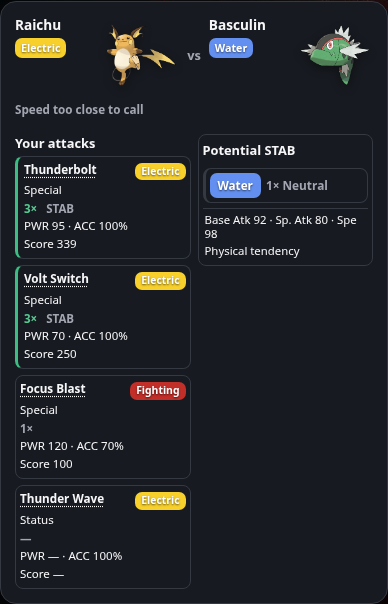
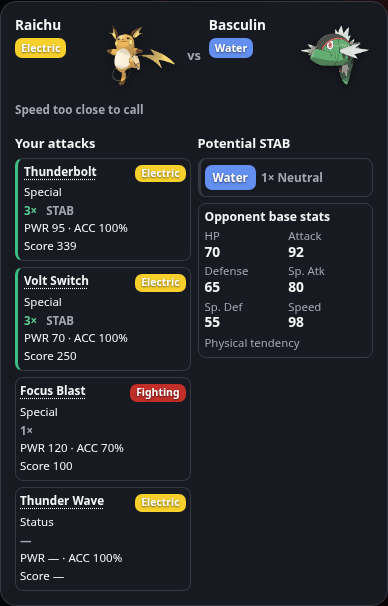
Finish V76 defense cards and preemptive OHKO notice

diff --git a/sw.js b/sw.js
@@ -1,7 +1,7 @@
 // V70: match the actual versioned URLs requested by index.html for offline cold starts.
-const NAME='takdex-v76-release-candidate-5';
+const NAME='takdex-v76-release-candidate-5-final';
 const ART='takdex-artwork-runtime-v74-dev71';
-const FILES=['./','./index.html','./styles.css?v=76.0.4','./bw-core-dev5.js?v=74.0.0','./app.js?v=76.0.4','./gen5-save.js?v=76.0.0','./save-sync.js?v=76.0.4','./db74/gen5-save-names.json','./db74.js?v=74.0.0','./tutor-locations.js?v=74.0.0','./v73-ui.js?v=74.0.0','./hoenn-map.js?v=76.0.0','./maps.js?v=76.0.0','./battle-outcomes.js?v=76.0.3','./v74-ux.js?v=76.0.4','./unova-v74.js?v=74.5.2.20261124','./bw-trainer-moves-v76.js?v=74.5.2.20261124','./unova-trainer-reference.js?v=76.0.0','./trainer-abilities-v76.js?v=76.0.3','./sprite-ids-v77.js?v=74.5.2.20261124','./platinum-league-v77.js?v=74.5.2.20261124','./unova-b2w2-v74.js?v=74.0.0','./unova-black-2-v74.jpg?v=74.6.1','./unova-white-2-v74.jpg?v=74.6.1','./unova-black-v78.jpg?v=74.8.3','./unova-white-v78.jpg?v=74.8.3','./feedback-config.js?v=74.0.0','./manifest.webmanifest','./icon-192.png','./icon-512.png','./takdex-background.webp','./takdex-background-light.webp','./takdex-radar-logo.png','./takdex-header-logo.png','./takdex-team-nav.png','./takdex-battle-nav.png','./takdex-pokedex-nav.png','./takdex-splash.png','./sinnoh-platinum-game-map.png'];
+const FILES=['./','./index.html','./styles.css?v=76.0.5','./bw-core-dev5.js?v=74.0.0','./app.js?v=76.0.4','./gen5-save.js?v=76.0.0','./save-sync.js?v=76.0.4','./db74/gen5-save-names.json','./db74.js?v=74.0.0','./tutor-locations.js?v=74.0.0','./v73-ui.js?v=74.0.0','./hoenn-map.js?v=76.0.0','./maps.js?v=76.0.0','./battle-outcomes.js?v=76.0.5','./v74-ux.js?v=76.0.5','./unova-v74.js?v=74.5.2.20261124','./bw-trainer-moves-v76.js?v=74.5.2.20261124','./unova-trainer-reference.js?v=76.0.0','./trainer-abilities-v76.js?v=76.0.3','./sprite-ids-v77.js?v=74.5.2.20261124','./platinum-league-v77.js?v=74.5.2.20261124','./unova-b2w2-v74.js?v=74.0.0','./unova-black-2-v74.jpg?v=74.6.1','./unova-white-2-v74.jpg?v=74.6.1','./unova-black-v78.jpg?v=74.8.3','./unova-white-v78.jpg?v=74.8.3','./feedback-config.js?v=74.0.0','./manifest.webmanifest','./icon-192.png','./icon-512.png','./takdex-background.webp','./takdex-background-light.webp','./takdex-radar-logo.png','./takdex-header-logo.png','./takdex-team-nav.png','./takdex-battle-nav.png','./takdex-pokedex-nav.png','./takdex-splash.png','./sinnoh-platinum-game-map.png'];
 FILES.push(...["./db74/e-alpha-sapphire.json","./db74/e-black-2.json","./db74/e-black.json","./db74/e-blue.json","./db74/e-brilliant-diamond.json","./db74/e-crystal.json","./db74/e-diamond.json","./db74/e-emerald.json","./db74/e-firered.json","./db74/e-gold.json","./db74/e-heartgold.json","./db74/e-leafgreen.json","./db74/e-moon.json","./db74/e-omega-ruby.json","./db74/e-pearl.json","./db74/e-platinum.json","./db74/e-red.json","./db74/e-ruby.json","./db74/e-sapphire.json","./db74/e-scarlet.json","./db74/e-shield.json","./db74/e-shining-pearl.json","./db74/e-silver.json","./db74/e-soulsilver.json","./db74/e-sun.json","./db74/e-sword.json","./db74/e-ultra-moon.json","./db74/e-ultra-sun.json","./db74/e-violet.json","./db74/e-white-2.json","./db74/e-white.json","./db74/e-x.json","./db74/e-y.json","./db74/e-yellow.json","./db74/index.json","./db74/machines.json","./db74/moves.json","./db74/p0.json","./db74/p1.json","./db74/p10.json","./db74/p11.json","./db74/p12.json","./db74/p13.json","./db74/p14.json","./db74/p15.json","./db74/p156.json","./db74/p157.json","./db74/p158.json","./db74/p159.json","./db74/p16.json","./db74/p160.json","./db74/p161.json","./db74/p2.json","./db74/p3.json","./db74/p4.json","./db74/p5.json","./db74/p6.json","./db74/p7.json","./db74/p8.json","./db74/p9.json"]);
 self.addEventListener('install',e=>{self.skipWaiting();e.waitUntil(caches.open(NAME).then(c=>c.addAll(FILES)))});
 self.addEventListener('activate',e=>e.waitUntil(caches.keys().then(keys=>Promise.all(keys.filter(k=>(k.startsWith('takdex-v')&&k!==NAME)||k==='takdex-artwork-v26').map(k=>caches.delete(k)))).then(()=>self.clients.claim())));

diff --git a/styles.css b/styles.css
@@ -1445,15 +1445,20 @@ main .buttons,dialog .buttons{margin-top:8px;}
 :is(.td76-move-card,.td76-defense-type).td74-effect-danger :is(.td76-move-effect,strong){color:#ff7183}
 body.light :is(.td76-move-card,.td76-defense-type).td74-effect-safe :is(.td76-move-effect,strong){color:#166b44}
 body.light :is(.td76-move-card,.td76-defense-type).td74-effect-danger :is(.td76-move-effect,strong){color:#aa1739}
-.td76-defense{display:grid;gap:5px;align-self:start;align-content:start;min-width:0;border:1px solid var(--edge);border-radius:8px;background:var(--card);padding:6px 4px}
-.td76-defense-type{display:flex;flex-wrap:wrap;align-items:center;gap:3px 5px;min-width:0;padding:4px;border:1px solid var(--edge);border-inline-start:3px solid var(--edge);border-radius:8px;font-size:.74rem}
+.td76-defense{display:grid;gap:6px;align-self:start;align-content:start;min-width:0}
+.td76-quick-grid h4{margin-bottom:6px}
+.td76-quick-grid .td76-defense>h4{margin-bottom:0}
+.td76-defense-type{display:flex;flex-wrap:wrap;align-items:center;gap:3px 5px;min-width:0;padding:6px 4px;border:1px solid var(--edge);border-inline-start:3px solid var(--edge);border-radius:8px;background:var(--card);font-size:.74rem}
 .td76-defense-type .pill{margin:0;color:#fff!important;text-shadow:0 1px 2px #0009}
 .td76-defense-type.td74-effect-safe{border-inline-start-color:#57ca92}
 .td76-defense-type.td74-effect-danger{border-inline-start-color:#ff7183}
 body.light .td76-defense-type.td74-effect-safe{border-inline-start-color:#166b44}
 body.light .td76-defense-type.td74-effect-danger{border-inline-start-color:#aa1739}
-.td76-defense-stats{display:grid;gap:2px;padding:4px 2px 0;border-top:1px solid var(--edge)}
-.td76-defense-stats small{font-size:.71rem;line-height:1.3}
+.td76-defense-stats{display:grid;gap:5px;padding:6px;border:1px solid var(--edge);border-radius:8px;background:var(--card)}
+.td76-defense-stats h5{margin:0;font-size:.76rem;line-height:1.2}
+.td76-defense-stats dl{display:grid;grid-template-columns:repeat(2,minmax(0,1fr));gap:4px 6px;margin:0}
+.td76-defense-stats dt,.td76-defense-stats small{font-size:.71rem;line-height:1.3;color:var(--muted)}
+.td76-defense-stats dd{margin:0;font-size:.86rem;line-height:1.2;font-weight:800}
 :is(#battlePage,#plannerPage) .td77-turn-row .td76-turn-order{color:var(--muted);font-weight:800;font-size:.73rem}
 :is(#battlePage,#plannerPage) .td77-turn-row .td76-turn-order.player{color:#47d991}
 :is(#battlePage,#plannerPage) .td77-turn-row .td76-turn-order.opponent{color:#ff6575}
@@ -1498,6 +1503,8 @@ body.light :is(#battlePage,#plannerPage) .td77-turn-row .td76-turn-order.opponen
 #pokeForm .td74-item-options{z-index:150}
 .td76-battle-warning{display:flex;gap:6px;align-items:baseline;margin:7px 0;padding:6px 8px;border:1px solid #df5769;border-radius:8px;background:#401e27;color:#ff8a98;font-size:.8rem;font-weight:800}
 body.light .td76-battle-warning{background:#fff1f2;color:#a41d36}
+.td76-battle-warning.td76-battle-opportunity{border-color:#3aab78;background:#163a2b;color:#75dda9}
+body.light .td76-battle-warning.td76-battle-opportunity{background:#ecfaf2;color:#166b44}
 :is(#battlePage,#plannerPage) .td77-turn-row .td76-turn-order{width:fit-content;max-width:100%;line-height:1.15}
 
 

diff --git a/v74-ux.js b/v74-ux.js
@@ -69,7 +69,9 @@ function potentialThreat(a,d,gen){
  return `<section class="td76-defense"><h4>Potential STAB</h4>${plannerPotentialStab(d,a,gen).map(({type,mult})=>{
   const tone=mult<1?'safe':mult>1?'danger':'neutral';
   return `<div class="td76-defense-type td74-effect-${tone}">${pill(type)} <strong>${mult+'× '+(mult===0?'Immune':mult>1?'Weak':mult<1?'Resists':'Neutral')}</strong></div>`;
- }).join('')}<div class="td76-defense-stats"><small>Base Atk ${physical??'—'} · Sp. Atk ${special??'—'} · Spe ${stats.speed??'—'}</small>${physical&&special?`<small>${tendency}</small>`:''}</div></section>`;
+ }).join('')}<div class="td76-defense-stats"><h5>Opponent base stats</h5><dl>
+  ${Object.entries(STAT_NAMES).map(([key,label])=>`<div><dt>${label}</dt><dd>${escape(stats[key]??'—')}</dd></div>`).join('')}
+ </dl>${physical&&special?`<small>${tendency}</small>`:''}</div></section>`;
 }
 function moveCard(m,a,d,gen,{incoming=false,battle=false,outcome=null,standardOrder=null,comparison=null}={}){
  const report=td72AbilityReport(m,d,gen,a), status=m.damageClass==='status';
@@ -141,9 +143,11 @@ function duelCard(own,foe,a,d,gen,status,context='planner'){
  const incoming=moveCards(d,a,gen,{incoming:true,first:threat?.m,standardOrder:knownOrder===null?null:1-knownOrder,comparison:best?.m});
  const danger=best?.m&&outcomes.threat(d,a,gen,best.m);
  const warning=danger?.preemptiveKo>0?danger.m.name+(danger.preemptiveKo>=1-1e-10?' is predicted to KO before you attack':' can KO before you attack'):'';
+ const opportunity=best?.beforeReplyKo>0?best.m.name+
+  (best.beforeReplyKo>=1-1e-10?' will OHKO before the opponent attacks':' can OHKO before the opponent attacks'):'';
  const moves=battle?`<div class="td74-clash-columns td76-quick-grid"><section><h4>Your attacks</h4>${outgoing.join('')||'<small>No moves entered.</small>'}</section>${a&&d?potentialThreat(a,d,gen):''}</div>`:
  `<div class="td76-duel-grid"><h4>Your attacks</h4><h4>Incoming threats</h4>${Array.from({length:Math.max(1,outgoing.length,incoming.length)},(_,i)=>(outgoing[i]||`<div>${i===0?'<small>No moves entered.</small>':''}</div>`)+(incoming[i]||`<div>${i===0?'<small>No moves entered.</small>':''}</div>`)).join('')}</div>`;
- return `<article class="card td74-clash"><div class="td75-duel-title${battle?'':' td77-duel-six'}">${mon(own,a,'own')}<span class="td75-vs">vs</span>${mon(foe,d,'opp')}</div>${order}${warning?`<aside class="td76-battle-warning"><span aria-hidden="true">⚠</span> ${escape(warning)}</aside>`:''}${status||''}${moves}</article>`;
+ return `<article class="card td74-clash"><div class="td75-duel-title${battle?'':' td77-duel-six'}">${mon(own,a,'own')}<span class="td75-vs">vs</span>${mon(foe,d,'opp')}</div>${order}${warning?`<aside class="td76-battle-warning"><span aria-hidden="true">⚠</span> ${escape(warning)}</aside>`:''}${opportunity?`<aside class="td76-battle-warning td76-battle-opportunity"><span aria-hidden="true">✓</span> ${escape(opportunity)}</aside>`:''}${status||''}${moves}</article>`;
 }
 
 function renderFocus(){if(window.td3HoldActive?.())return;const own=roster('own')[ownSelection]||{},foe=roster('opp')[oppSelection]||{};

diff --git a/battle-outcomes.js b/battle-outcomes.js
@@ -123,7 +123,20 @@
   return candidates(a,d,g).map(m=>{
    const results=(threats.length?threats:[idle]).map(n=>({n,...compare(a,d,m,n,g)}));
    const worst=results.reduce((x,y)=>attackScore(x)<=attackScore(y)?x:y);
-   return {m,...worst,score:attackScore(worst),verifiedThreat:!!threats.length};
+   // Require a preemptive KO chance against every modeled damaging reply.
+   let beforeReplyKo=threats.length?Math.min(...results.map(result=>result.preemptiveKo)):0;
+   if(beforeReplyKo>0){
+    const bypass=['mold-breaker','turboblaze','teravolt'].includes(td2ActualAbility(a));
+    const ability=td2ActualAbility(d);
+    const possible=ability?[ability]:td2AllAbilities(d);
+    if(!bypass&&((g>=7&&possible.includes('disguise'))||
+      (g>=8&&m.damageClass==='physical'&&possible.includes('ice-face'))||
+      (g>=5&&hp(d)===estimatedHP(d)&&possible.includes('sturdy'))))beforeReplyKo=0;
+    if(g>=2&&td73MoveKey(d.heldItem)==='focus-band')beforeReplyKo=Math.min(beforeReplyKo,.99);
+    const guards=['Protect','Detect','Endure','King’s Shield',"King's Shield",'Spiky Shield','Baneful Bunker','Obstruct','Silk Trap','Burning Bulwark'];
+    if(d.moves?.some(reply=>guards.includes(reply?.name)&&reply.remainingPP!==0&&orderChance(d,a,reply,m,g)>0))beforeReplyKo=0;
+   }
+   return {m,...worst,beforeReplyKo,score:attackScore(worst),verifiedThreat:!!threats.length};
   }).sort((x,y)=>y.win-x.win||y.score-x.score);
  }
  function koLabel({firstKo,twoHitKo}){

diff --git a/index.html b/index.html
@@ -13,7 +13,7 @@
 <meta property="og:type" content="website">
 <meta property="og:image" content="https://alexandrestp337.github.io/Tak-Dex/icon-512.png">
 <script type="application/ld+json">{"@context":"https://schema.org","@type":"WebApplication","name":"Tak-Dex","url":"https://alexandrestp337.github.io/Tak-Dex/","applicationCategory":"GameApplication","operatingSystem":"Web browser","description":"Pokémon team builder, battle planner, move checker, Pokédex and interactive region maps.","offers":{"@type":"Offer","price":"0","priceCurrency":"USD"}}</script>
-<link rel="stylesheet" href="styles.css?v=76.0.4">
+<link rel="stylesheet" href="styles.css?v=76.0.5">
 <link rel="icon" type="image/png" sizes="192x192" href="icon-192.png">
 <link rel="apple-touch-icon" sizes="192x192" href="icon-192.png">
 <link rel="manifest" href="manifest.webmanifest">
@@ -368,7 +368,7 @@
 <script src="hoenn-map.js?v=76.0.0"></script>
 <script src="maps.js?v=76.0.0"></script>
 <script src="feedback-config.js?v=74.0.0"></script>
-<script src="battle-outcomes.js?v=76.0.3"></script>
-<script src="v74-ux.js?v=76.0.4"></script>
+<script src="battle-outcomes.js?v=76.0.5"></script>
+<script src="v74-ux.js?v=76.0.5"></script>
 </body>
 </html>

diff --git a/.github/v76/FEATURE-LEDGER.md b/.github/v76/FEATURE-LEDGER.md
@@ -11,9 +11,10 @@ V76 fifth correction candidate for acceptance. Approved baseline `V75-STABLE` at
 | Battle stat sources | Implemented with estimates for trainers | Imported stats at the saved level, imported IV/EV/nature deltas for level edits, manual offsets, and BW2 Challenge Mode underlying level. Verified trainer move and item data does not establish exact trainer stats. |
 | Survival-aware 6v6 | Implemented with bounded model | Immediate KO threat, priority, effective Speed and ties, accuracy, current HP, conditional power, Sturdy and Focus Sash. The recommendation considers two turns of entered attacks. Move cards prioritize first-turn OHKO and genuine two-hit KO probabilities, with separate damage-potential wording for blocked or uncertain execution. |
 | Conditional moves | Partial | Revenge, Avalanche, Payback, Assurance, Hidden Power, and several context-dependent moves use known inputs. Full mechanics and every move across all generations remain open. |
-| Battle and 6v6 interfaces | Implemented | Team strip above opponent search, restored V75 gold crown treatment, shared move cards, combined STAB display, aligned 6v6 moves and roll bars, actionable matchup warnings, V75-STABLE effectiveness accents and badge contrast, a dedicated color-coded turn-order row below aligned headers, a boxed regular Battle defense panel with individually accented STAB types, Move Checker links and return state. Double Battle retains its existing pairing flow. |
+| Battle and 6v6 interfaces | Implemented | Team strip above opponent search, restored V75 gold crown treatment, shared move cards, combined STAB display, aligned 6v6 moves and roll bars, actionable matchup warnings, V75-STABLE effectiveness accents and badge contrast, a dedicated color-coded turn-order row below aligned headers, an aligned regular Battle defense column with individual STAB cards and all six historical opponent base stats, Move Checker links and return state. Double Battle retains its existing pairing flow. |
 | Stat editor | Implemented | Battle settings starts collapsed, with closed Level & battle stats and Ability & held item subsections. The summary and attacks stay visible. Hypothetical player and opponent controls remain in 6v6. Steppers, tap-to-select, Auto, base stats and source labels are shared. |
 | Preset opponent abilities | Partial coverage | 497 verified encounter records cover supported Gen IV and Unova presets with legal-ability checks. Existing records and sole legal abilities remain available. Other multi-ability encounters stay unknown. |
+| Preemptive OHKO notice | Implemented | A green 6v6 notice distinguishes possible and certain KOs before the modeled reply, with survival guards. |
 | Incoming KO warning | Implemented | Red warning shows a specific modeled preemptive KO, with separate wording for possible and certain outcomes. The ranked strip retains the gold outline and crown. |
 | Visual consistency | Partial | Battle move cards, expanded editor borders, compact controls, and centered equal Pokédex actions with matching icons received targeted updates. Full visual parity across every tool and on-device rendering remain open. |
 | Pokédex | Implemented | Move Checker return restores learnset scroll. Bundled Pokémon and learnsets render when evolution details are unavailable. |

diff --git a/.github/v76/RELEASE-REPORT.md b/.github/v76/RELEASE-REPORT.md
@@ -194,3 +194,17 @@ The picker now compares the validated save-owned data against the current roster
 | Dual-type defense | [412 px](screenshots/defense-dual-412.png) | [1280 px](screenshots/defense-dual-1280.png) |
 
 The picker continues to support raw Generation V saves for supported games. Quick Battle turn order remains an estimate, and its defense panel shows potential STAB types using known abilities. Existing 6v6 simulation and trainer-data coverage limits still apply. Chromium verification used desktop and mobile viewports. Galaxy S25 Ultra, Android WebView and native automatic synchronization remain untested.
+
+### Final refinements in the fifth pass
+
+- Regular Battle aligns the two column headings and uses individual STAB cards with their existing type badges and incoming effectiveness colors. The separate Opponent base stats card shows HP, Attack, Defense, Sp. Atk, Sp. Def and Speed in three rows, with the attacking tendency underneath. Values come from the selected form and game's historical base-stat data.
+- The green 6v6 notice describes the recommended move when the model finds a first-turn KO before every modeled damaging reply. It distinguishes possible and certain outcomes, using current HP, damage rolls, accuracy, speed, priority, items and applicable abilities. The red warning, damage cards and recommendation ranks keep their existing behavior.
+- The notice is conservative when there are no modeled damaging replies, when a guard can act first, or when an unresolved ability can prevent the KO. It describes the matchup model and does not predict the opponent's actual move selection. The model still omits some battle mechanics and field states. Galaxy S25 Ultra and Android WebView remain untested.
+
+The 27 Node tests passed, including first-turn accuracy, damage rolls, Speed ties, priority, current HP, Sturdy, Focus Sash and Focus Band. Chromium correction tests passed at 320, 412 and 1280 px. They checked column alignment and border removal, all six stats and both STAB layouts, green notice wording, survival items and the red warning. A separate Chromium check verified the historical Defense and Sp. Def changes for Pikachu between Black and X and the six form-specific Rotom Wash values in Black. The file-picker, team-management, offline and smoke regressions also passed.
+
+| Screen | Mobile | Desktop |
+| --- | --- | --- |
+| Single-type defensive column | [412 px](screenshots/defense-single-412.png) | [1280 px](screenshots/defense-single-1280.png) |
+| Dual-type defensive column | [412 px](screenshots/defense-dual-412.png) | [1280 px](screenshots/defense-dual-1280.png) |
+| First-turn OHKO notice | [412 px](screenshots/first-turn-ohko-412.png) | [1280 px](screenshots/first-turn-ohko-1280.png) |

diff --git a/.github/v76/ACCEPTANCE.md b/.github/v76/ACCEPTANCE.md
@@ -1,13 +1,9 @@
-# V76 fifth correction acceptance checklist
+# V76 final acceptance checklist
 
-Automated results are recorded below. User acceptance is pending.
-
-| Corrected area | Status | Acceptance check |
+| Correction | Automated status | Acceptance check |
 | --- | --- | --- |
-| Compact Team Builder settings | Pass | Expand a saved Pokémon. Check artwork, typing, level, ability, equipped item and all four attacks while Battle settings is closed. Open it and verify both subsections start closed. Try the level and stat controls, then the ability and item controls. |
-| Manual save-file reimport | Pass | Import a valid Gen V file, edit and save the team, then choose the same file twice. The first reimport restores the game data. The second leaves the matching team alone. An updated file at the same path imports, and a corrupt file leaves the valid party intact. |
-| Battle and 6v6 headers | Pass | Change who strikes first. Names, types, abilities, and applicable levels and items align. The indicator changes sides within its own row. The red KO warning appears directly below it when relevant. |
-| Regular Battle defense | Pass | Compare a single-type opponent with a dual-type opponent. Check independent weakness, resistance, neutral and immunity accents alongside base stats and attacking tendency. |
-| Galaxy S25 Ultra acceptance | Untested | Check these same four areas on the phone. |
+| Regular Battle defense alignment | Pass | Compare single- and dual-type opponents. Potential STAB lines up with Your attacks. Each type row has its own card and effectiveness accent. |
+| Opponent base stats | Pass | Check the separate two-column card. All six base stats appear in order, with the attacking tendency underneath. |
+| First-turn OHKO in 6v6 | Pass | Check that a faster guaranteed KO shows “will OHKO” in green. Uncertain cases show “can OHKO.” A faster opposing attack or a full-HP Focus Sash can suppress the notice. The red incoming warning remains available. |
 
-[Release report and screenshots](RELEASE-REPORT.md#fifth-correction-pass)
+Phone and Android WebView acceptance is untested. [Release report and screenshots](RELEASE-REPORT.md#final-refinements-in-the-fifth-pass)
